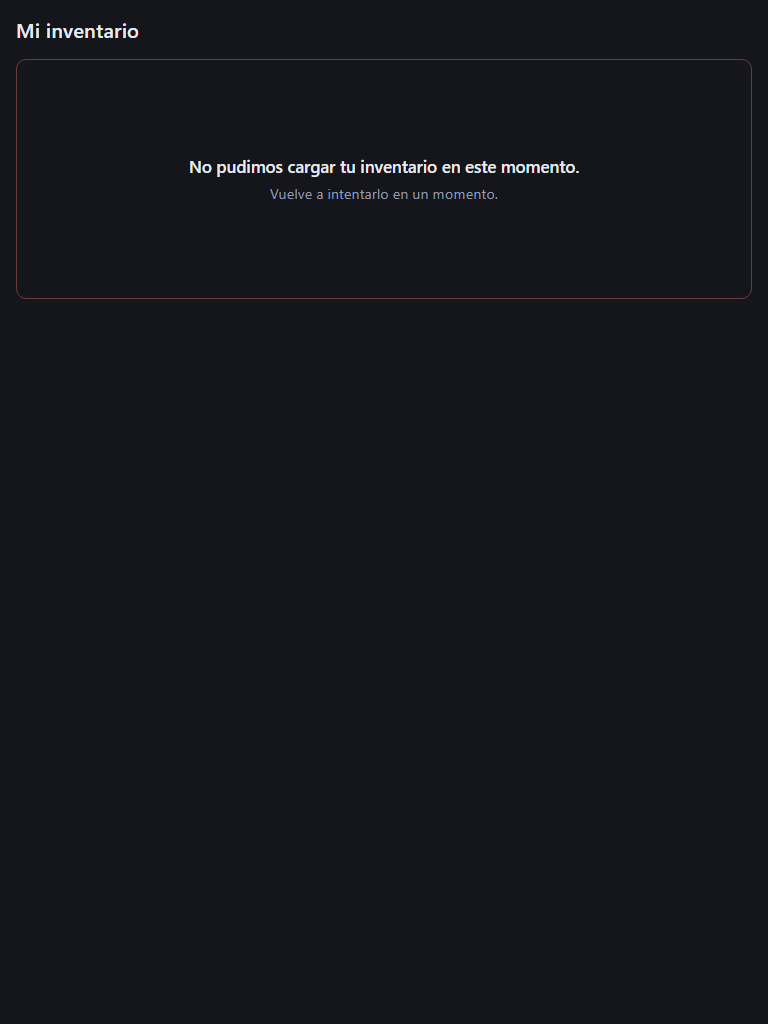
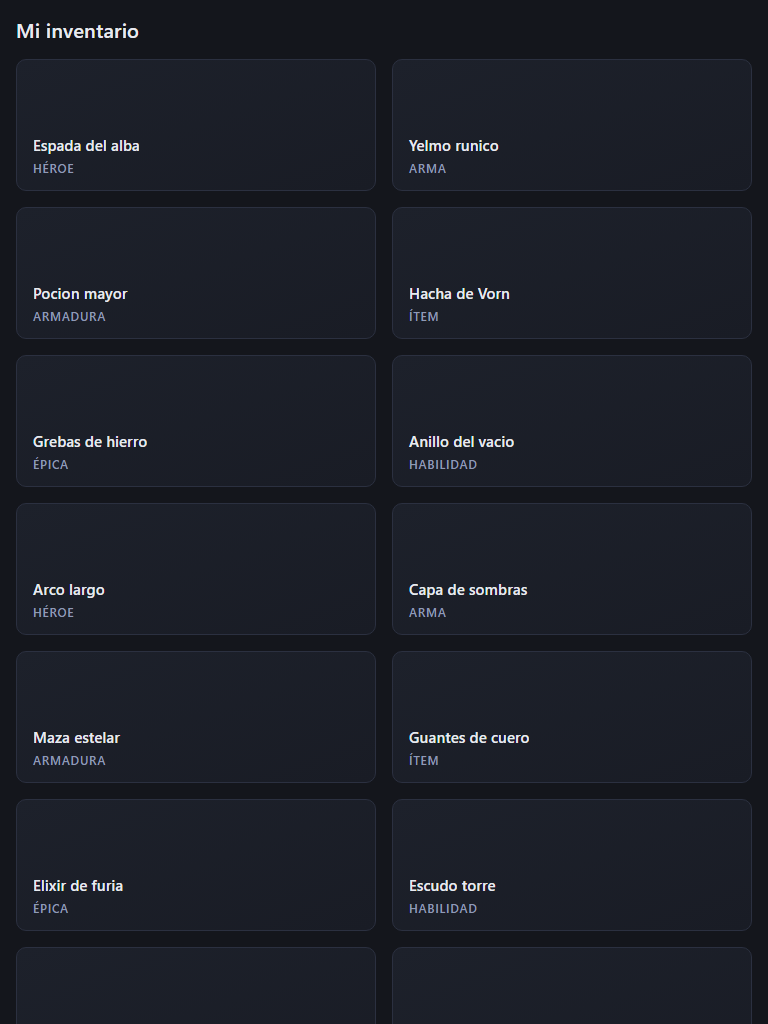
docs(contratos): publica el GET paginado del inventario y corrige la ruta
Correcciones pedidas en la revision del PR #172:

- `contracts/openapi/inventario.yaml` declara ahora `GET
  /api/v1/inventario/elementos` con el parametro `pagina`, el esquema
  `PaginaInventario` y sus respuestas 200, 400 y 401. Cumple la regla 1 de
  plataforma: el contrato se publica, no se deduce del codigo;
- el README del modulo y `capturar-evidencia.mjs` dejan de mencionar la ruta
  antigua `/api/v1/inventarios/{propietarioId}/elementos`;
- la vista renombra su parametro a `identidad`, coherente con la cabecera.

**El fallo de las capturas era real y de fondo**: `capturar-evidencia.mjs`
seguia interceptando `**/api/v1/inventarios/**`, que ya no coincide con la
ruta nueva. La peticion salia sin interceptar, fallaba, y las cinco imagenes
mostraban el estado de error en vez de la vitrina. Regeneradas y verificadas:
16 tarjetas, sin estado de error ni vacio.

diff --git a/frontend/app-web/src/contenido/inventario/inventario.js b/frontend/app-web/src/contenido/inventario/inventario.js
@@ -13,14 +13,14 @@ import { construirCarga, construirVacio, construirError } from './estados-vista.
  * Pinta el inventario de un jugador dentro de `contenedor`.
  *
  * @param {HTMLElement} contenedor donde se monta la vista.
- * @param {string} propietarioId jugador cuyo inventario se consulta.
+ * @param {string} identidad jugador autenticado, que viaja en la cabecera.
  * @param {number} numeroPagina pagina pedida, desde cero.
  * @param {{consultar?: Function}} opciones inyeccion para las pruebas.
  * @returns {Promise<void>} resuelve cuando la vista quedo en su estado final.
  */
 export async function montarVitrina(
   contenedor,
-  propietarioId,
+  identidad,
   numeroPagina = 0,
   { consultar = consultarPagina } = {},
 ) {
@@ -28,7 +28,7 @@ export async function montarVitrina(
 
   let pagina;
   try {
-    pagina = await consultar(propietarioId, numeroPagina);
+    pagina = await consultar(identidad, numeroPagina);
   } catch (fallo) {
     // El detalle tecnico es para el equipo; al jugador se le habla en su idioma.
     console.error('No se pudo cargar la vitrina del inventario', fallo);

diff --git a/frontend/app-web/src/contenido/inventario/README.md b/frontend/app-web/src/contenido/inventario/README.md
@@ -1,7 +1,8 @@
 # Vitrina del inventario
 
 Vista de `HU-INV-001`. Consume la consulta paginada del servicio de inventario
-(`SCRUM-318`): `GET /api/v1/inventarios/{propietarioId}/elementos?pagina=N`.
+`GET /api/v1/inventario/elementos?pagina=N`, con la identidad en la cabecera
+`X-User-Name`.
 
 ## Alcance actual
 
@@ -87,6 +88,7 @@ backend, porque la respuesta del servicio se intercepta.
 
 ## Identidad
 
-El `propietarioId` viaja hoy como parametro. La validacion contra la identidad
-autenticada llega con `HU-INF-009`; sin ella el endpoint no debe exponerse
-fuera del entorno interno.
+El jugador se identifica por la cabecera `X-User-Name`, la misma que usan la
+creacion y la modificacion. **La identidad nunca viaja en la ruta**, asi que
+nadie puede pedir el inventario ajeno cambiando la URL. Cuando llegue el
+contrato de identidad (`HU-INF-009`), esa cabecera la pondra la sesion.
